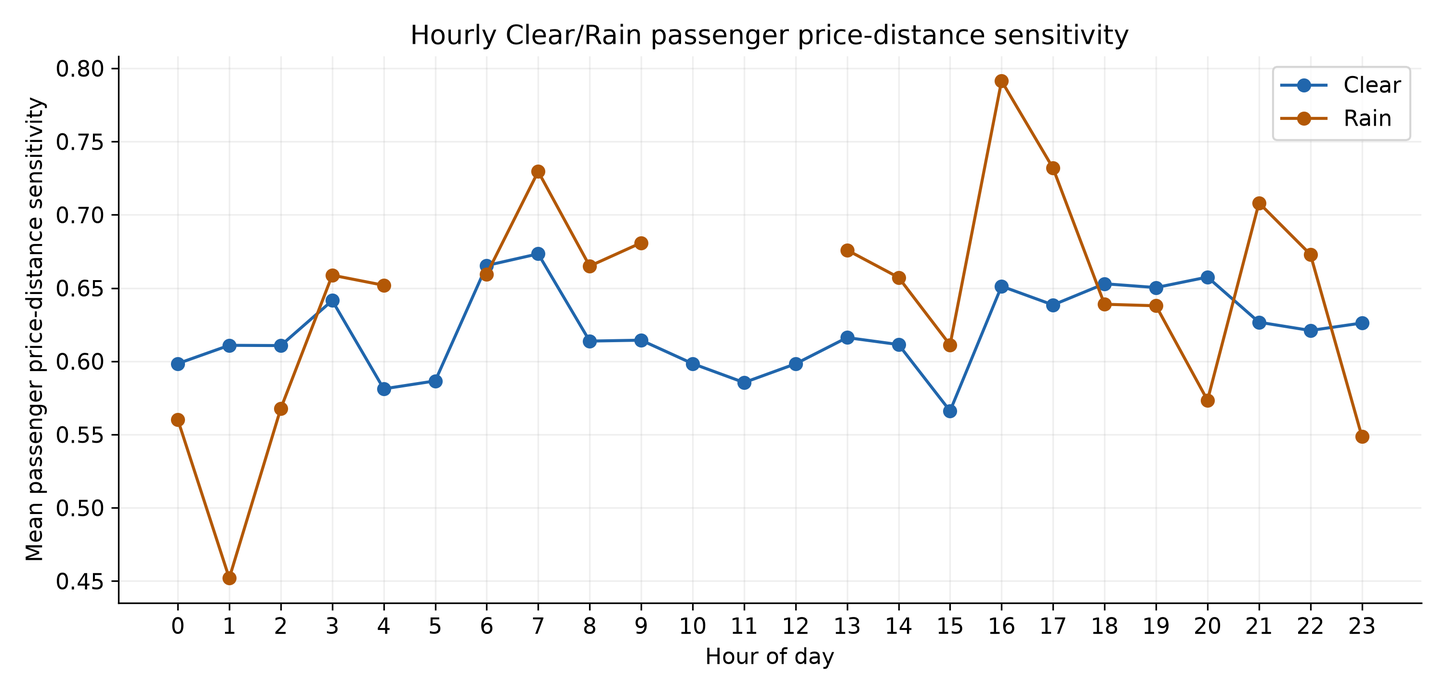
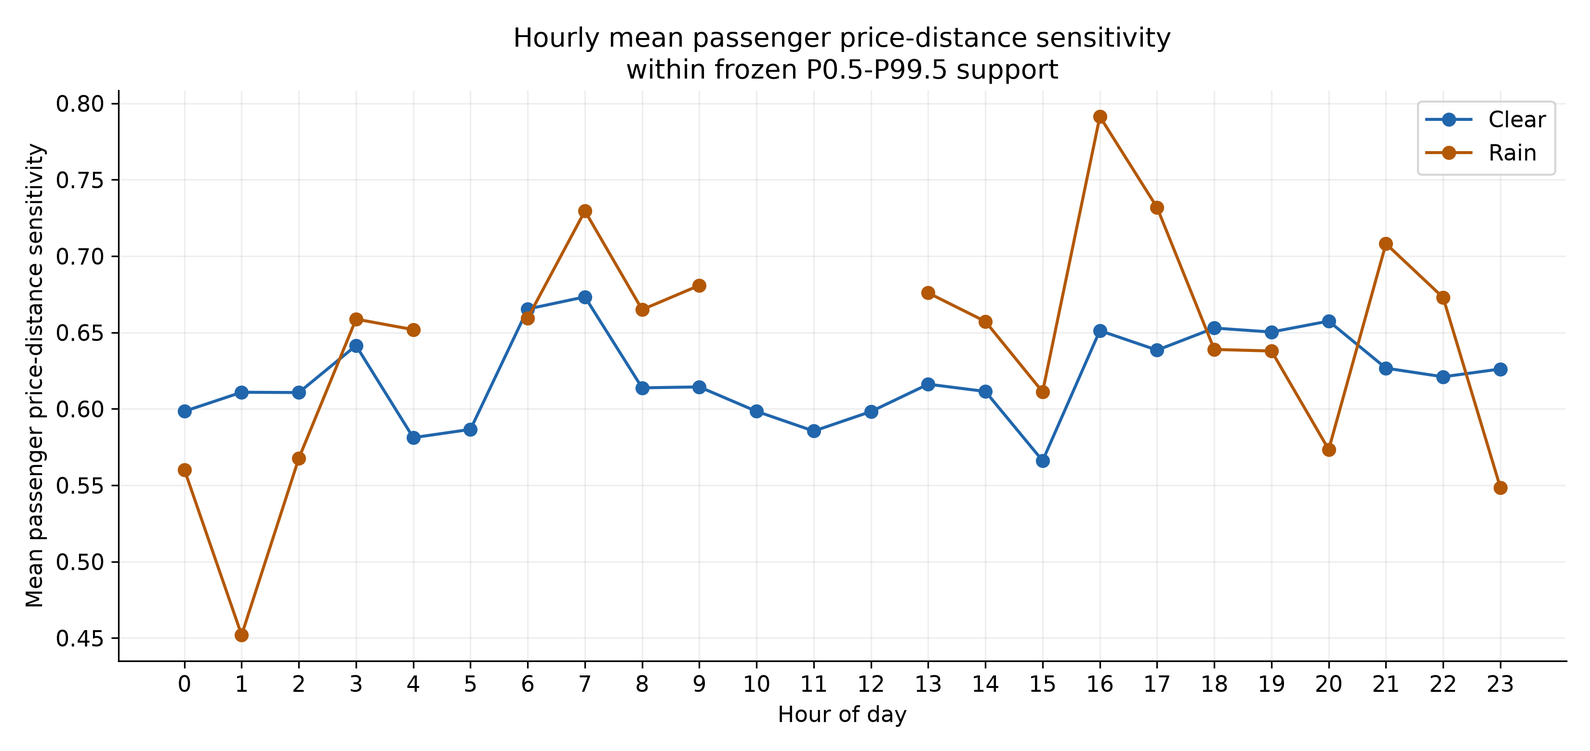
Results added

diff --git a/src/simulation/pricing_dispatch.py b/src/simulation/pricing_dispatch.py
@@ -208,6 +208,7 @@ def _run_request_pricing_dispatch_slot(
     linucb_reward_scaling: str, dispatch_model: str,
     contention_inputs: DriverContentionInputs | None,
     contention_observer: Callable[[ContentionEvaluation], None] | None,
+    time_pricing_policy: TimePricingPolicy | None = None,
 ) -> PricingDispatchSlotResult:
     """Select every request first, dispatch accepted requests, then update each once."""
     timestamp = pd.Timestamp(simulation_timestamp)
@@ -246,6 +247,7 @@ def _run_request_pricing_dispatch_slot(
     for request in ordered:
         context, decision, resolved = selected[request.request_id]
         inputs = context_inputs[request.origin_grid]
+        effective_factor = decision.pricing_factor if time_pricing_policy is None else time_pricing_policy.apply(decision.pricing_factor, simulation_timestamp.hour)
         if customer_response_model == CUSTOMER_MODEL_EQ31:
             fare = offered_fare(request.base_fare, decision.pricing_factor)
             acceptance = draw_customer_acceptance(
@@ -258,7 +260,7 @@ def _run_request_pricing_dispatch_slot(
             if request.trip_distance_miles is None:
                 raise ValueError("historical_sensitivity mode requires request trip_distance_miles.")
             historical = historical_customer_model.evaluate_resolved(
-                resolved, request.trip_distance_miles, decision.pricing_factor,
+                resolved, request.trip_distance_miles, effective_factor,
             )
             fare, accepted, probability = historical.p_dispatch, historical.accepted, None
             request.customer_model = CUSTOMER_MODEL_HISTORICAL
@@ -266,7 +268,7 @@ def _run_request_pricing_dispatch_slot(
             request.historical_p_base, request.historical_d_base = historical.p_base, historical.d_base
             request.epsilon_customer, request.p_max = historical.epsilon_customer, historical.p_max
             request.sensitivity_lookup_level = historical.sensitivity_lookup_level
-        request.pricing_factor, request.offered_fare = decision.pricing_factor, fare
+        request.pricing_factor, request.offered_fare = effective_factor, fare
         request.acceptance_probability, request.customer_accepted = probability, accepted
         request.pricing_context, request.selected_arm = tuple(context.tolist()), decision.arm_index
         pending.append(PendingRequestPricingDecision(request.request_id, context.copy(), decision, float(fare), bool(accepted)))
@@ -363,7 +365,9 @@ def run_pricing_dispatch_slot(
     empty ``context_inputs`` mapping creates neither a decision nor an update.
     """
     if time_pricing_policy is not None:
-        time_pricing_policy.require_runtime_support()
+        time_pricing_policy.require_runtime_support(customer_response_model)
+        if time_pricing_policy.mode != "BASELINE" and simulation_timestamp is None:
+            raise ValueError("Experimental time pricing requires simulation_timestamp")
     if not isinstance(acceptance_rng, np.random.Generator):
         raise ValueError("acceptance_rng must be an explicit numpy.random.Generator.")
     if customer_response_model not in CUSTOMER_RESPONSE_MODELS:
@@ -436,7 +440,7 @@ def run_pricing_dispatch_slot(
             corrected_supply=corrected_supply, grid_lookup=grid_lookup, popularity_table=popularity_table,
             linucb_reward_scaling=linucb_reward_scaling,
             dispatch_model=dispatch_model, contention_inputs=contention_inputs,
-            contention_observer=contention_observer,
+            contention_observer=contention_observer, time_pricing_policy=time_pricing_policy,
         )
     decisions: dict[int, PricingDecision] = {}
     accumulators: dict[int, ContextRevenueAccumulator] = {}
@@ -465,6 +469,7 @@ def run_pricing_dispatch_slot(
         context_id = request.origin_grid
         decision = decisions[context_id]
         context_input = context_inputs[context_id]
+        effective_factor = decision.pricing_factor if time_pricing_policy is None or time_pricing_policy.mode == "BASELINE" else time_pricing_policy.apply(decision.pricing_factor, simulation_timestamp.hour)
         if customer_response_model == CUSTOMER_MODEL_EQ31:
             fare = offered_fare(request.base_fare, decision.pricing_factor)
             acceptance = draw_customer_acceptance(
@@ -481,7 +486,7 @@ def run_pricing_dispatch_slot(
             try:
                 historical = historical_customer_model.evaluate(  # type: ignore[union-attr]
                     float(weather_code), int(period), request.trip_distance_miles,
-                    decision.pricing_factor,
+                    effective_factor,
                 )
             except KeyError as error:
                 raise KeyError(
@@ -496,7 +501,7 @@ def run_pricing_dispatch_slot(
             request.historical_d_base = historical.d_base
             request.epsilon_customer = historical.epsilon_customer
             request.p_max = historical.p_max
-        request.pricing_factor = decision.pricing_factor
+        request.pricing_factor = effective_factor
         request.offered_fare = fare
         request.acceptance_probability = probability
         request.customer_accepted = accepted

diff --git a/scripts/run_record030_time_pricing_experiment.py b/scripts/run_record030_time_pricing_experiment.py
@@ -1,0 +1,45 @@
+"""Opt-in Option A comparison; no Record-029 sensitivity data are loaded."""
+from pathlib import Path
+import sys,json,time
+from dataclasses import asdict
+import pandas as pd
+sys.path.insert(0,str(Path(__file__).resolve().parents[1]))
+from src.simulation.production import ProductionExperiment
+from src.pricing.time_policy import TimePricingPolicy
+
+ROOT=Path(__file__).resolve().parents[1]
+OUT=ROOT/'results/analysis/2026-10-13_record030_time_pricing_experiment'
+
+class ObservedExperiment(ProductionExperiment):
+    def _build_report(self, timestamp, routing_source, requests, evaluations, result, before_weights, after_weights):
+        report=super()._build_report(timestamp,routing_source,requests,evaluations,result,before_weights,after_weights)
+        self.offered_fare_sum=sum(a.offered_fare for a in result.pricing_dispatch.request_audit)
+        return report
+
+def aggregate(frame, name, seed, part):
+    n=int(frame.generated.sum());accepted=int(frame.accepted.sum());served=int(frame.served.sum())
+    assert n==accepted+int(frame.rejected.sum())
+    assert accepted==served+int(frame.accepted_unserved.sum())
+    return dict(experiment=name,seed=seed,daypart=part,requested_trips=n,accepted_trips=accepted,rejected_trips=int(frame.rejected.sum()),accepted_unserved=int(frame.accepted_unserved.sum()),assigned_trips=served,completed_trips=None,acceptance_rate=accepted/n if n else None,completion_rate=None,assignment_rate=served/n if n else None,mean_offered_fare=float(frame.offered_fare_sum.sum())/n if n else None,total_revenue=float(frame.raw_served_revenue.sum()),driver_earnings=None,average_passenger_wait=None)
+
+def main():
+    config=json.loads((ROOT/'config/record030_time_pricing_experiment.json').read_text())
+    overall=[];parts=[]
+    for policy in config['policies']:
+        name=policy['name'];start=time.perf_counter()
+        model=ObservedExperiment(ROOT,seed=config['seed'],time_pricing_policy=TimePricingPolicy.from_config({k:v for k,v in policy.items() if k!='name'}))
+        reports=[]
+        for i in range(config['slots']):
+            row=asdict(model.run_slot());row["offered_fare_sum"]=model.offered_fare_sum;reports.append(row)
+            print(name,i+1,'slots',round(time.perf_counter()-start,1),'seconds',flush=True)
+        f=pd.DataFrame(reports);hours=pd.to_datetime(f.timestamp).dt.hour
+        overall.append(aggregate(f,name,config['seed'],'ALL'))
+        for part,mask in [('DAYTIME',hours.between(8,19)),('OTHER',~hours.between(8,19))]:parts.append(aggregate(f[mask],name,config['seed'],part))
+        for row in overall+parts:
+            base=next(r for r in overall+parts if r['experiment']=='control' and r['daypart']==row['daypart'])
+            for metric in ['accepted_trips','assigned_trips','mean_offered_fare','total_revenue']:
+                row[metric+'_change']=row[metric]-base[metric]
+                row[metric+'_change_pct']=100*(row[metric]-base[metric])/base[metric] if base[metric] else None
+        pd.DataFrame(overall).to_csv(OUT/'pricing_experiment_summary.csv',index=False)
+        pd.DataFrame(parts).to_csv(OUT/'pricing_experiment_daypart_summary.csv',index=False)
+if __name__=='__main__':main()

diff --git a/tests/test_pricing_dispatch.py b/tests/test_pricing_dispatch.py
@@ -70,7 +70,7 @@ class PricingDispatchIntegrationTests(unittest.TestCase):
 
     def run_historical(
         self, requests, fleet, *, model=None, acceptance_seed=99,
-        learner=None, reward_model="legacy_normalized_accepted_revenue",
+        learner=None, reward_model="legacy_normalized_accepted_revenue", time_pricing_policy=None,
     ):
         return run_pricing_dispatch_slot(
             requests, {0: self.contexts[0]}, learner or DisjointLinUCB(alpha=1.), fleet,
@@ -79,7 +79,7 @@ class PricingDispatchIntegrationTests(unittest.TestCase):
             historical_customer_model=model or self.historical_model(),
             weather_code=1., period=0,
             simulation_timestamp=datetime(2026, 1, 1),
-            reward_model=reward_model,
+            reward_model=reward_model, time_pricing_policy=time_pricing_policy,
         )
 
     def run_request_mode(self, requests, fleet, *, learner=None, model=None, reward_scaling="none"):
@@ -300,6 +300,20 @@ class PricingDispatchIntegrationTests(unittest.TestCase):
         self.assertEqual((context.accepted, context.served, context.accepted_but_unserved), (1, 0, 1))
         self.assertEqual((context.served_revenue, context.linucb_reward), (0., 0.))
         self.assertEqual(learner.update_counts.sum(), 1)
+
+    def test_option_a_factor_preserves_customer_draw_and_threshold(self):
+        from src.pricing.time_policy import TimePricingPolicy
+        def run(policy):
+            return self.run_historical([self.empirical_request(0, 4.)], self.fleet(0),
+                model=self.historical_model(seed=42, sigma=.5), time_pricing_policy=policy).request_audit[0]
+        baseline=run(None)
+        control=run(TimePricingPolicy('EXPERIMENT_A'))
+        change=run(TimePricingPolicy('TIME_OF_DAY',1.,1.05))
+        self.assertEqual(baseline, control)
+        self.assertEqual(control.epsilon_customer,change.epsilon_customer)
+        self.assertEqual(control.p_max,change.p_max)
+        self.assertAlmostEqual(change.offered_fare,control.offered_fare*1.05)
+        self.assertEqual(change.customer_accepted,change.offered_fare<=change.p_max)
 
     def test_historical_mode_uses_artifact_base_miles_and_complete_audit(self) -> None:
         request = self.empirical_request(0, 4., fare=999.)

diff --git a/src/pricing/time_policy.py b/src/pricing/time_policy.py
@@ -1,13 +1,7 @@
-"""Opt-in Record-030 pricing interface; empirical-response integration is pending."""
+"""Opt-in Record-030 pricing factors under the existing passenger-response model."""
 from dataclasses import dataclass
 import math
 from typing import Mapping
-
-BLOCKER = (
-    'Record-030 experiment blocked: runtime historical_sensitivity samples positive '
-    'truncated Normal and divides by epsilon in maximum_price; it does not implement '
-    'the frozen signed Record-029 empirical sampler or its passenger-response adapter.'
-)
 
 @dataclass(frozen=True)
 class TimePricingPolicy:
@@ -39,7 +33,7 @@ class TimePricingPolicy:
         factor = self.daytime_factor if 8 <= hour <= 19 else self.other_factor
         return existing_factor * factor
 
-    def require_runtime_support(self):
-        """Fail before any simulator mutation, including for the experimental control."""
-        if self.mode != 'BASELINE':
-            raise RuntimeError(BLOCKER)
+    def require_runtime_support(self, customer_response_model='eq31'):
+        """Opt-in factors use the existing historical model without changing Eq31."""
+        if self.mode != 'BASELINE' and customer_response_model != 'historical_sensitivity':
+            raise ValueError('Time pricing experiments require existing historical_sensitivity response')

diff --git a/src/simulation/production.py b/src/simulation/production.py
@@ -176,7 +176,8 @@ def _weight_distance(before: Iterable[np.ndarray], after: Iterable[np.ndarray]) 
 class ProductionExperiment:
     """One causally persistent authoritative production experiment."""
 
-    def __init__(self, root: str | Path, *, seed: int = 42, fleet_size: int = FLEET_SIZE) -> None:
+    def __init__(self, root: str | Path, *, seed: int = 42, fleet_size: int = FLEET_SIZE, time_pricing_policy=None) -> None:
+        self.time_pricing_policy = time_pricing_policy
         self.root = Path(root).resolve()
         self.seed = int(seed)
         self.fleet_size = int(fleet_size)
@@ -449,6 +450,7 @@ class ProductionExperiment:
             federate=True, federation_round_index=self.slot_index,
             previous_grid_probabilities=self.previous_grid_probabilities,
             initial_grid_policy_probabilities=self.initial_probabilities,
+            time_pricing_policy=self.time_pricing_policy,
             customer_response_model=CUSTOMER_MODEL_HISTORICAL,
             historical_customer_model=self.customer, weather_code=self._weather_code(timestamp),
             period=timestamp.hour * 2 + timestamp.minute // 30, simulation_timestamp=timestamp,

diff --git a/src/simulation/main_slot.py b/src/simulation/main_slot.py
@@ -131,6 +131,7 @@ def run_main_slot(
     reward_model: str = "legacy_normalized_accepted_revenue",
     supply_model: str = "legacy_all_statuses",
     pricing_decision_mode: str = "legacy_grid",
+    time_pricing_policy=None,
     grid_lookup: pd.DataFrame | None = None,
     popularity_table: pd.DataFrame | None = None,
     sensitivity_fallback: str = "error",
@@ -171,6 +172,7 @@ def run_main_slot(
         reward_model=reward_model,
         supply_model=supply_model,
         pricing_decision_mode=pricing_decision_mode,
+        time_pricing_policy=time_pricing_policy,
         grid_lookup=grid_lookup,
         popularity_table=popularity_table,
         sensitivity_fallback=sensitivity_fallback,

diff --git a/tests/test_time_pricing_policy.py b/tests/test_time_pricing_policy.py
@@ -23,6 +23,6 @@ class TimePricingTests(unittest.TestCase):
 
     def test_control_guard_before_state_mutation(self):
         policy=TimePricingPolicy.from_config({'mode':'EXPERIMENT_A'})
-        with self.assertRaisesRegex(RuntimeError,'signed Record-029'):
+        with self.assertRaisesRegex(ValueError,'historical_sensitivity'):
             run_pricing_dispatch_slot([],{},None,None,{},2,15,None,time_pricing_policy=policy)
         TimePricingPolicy().require_runtime_support()

diff --git a/results/analysis/2026-10-13_record030_passenger_response_compatibility/current_passenger_response_model.md b/results/analysis/2026-10-13_record030_passenger_response_compatibility/current_passenger_response_model.md
@@ -1,0 +1,76 @@
+# Current passenger-response model: semantic audit
+
+## Evidence and scope
+
+Read-only inspection of `src/pricing/customer.py`, `src/pricing/customer_sensitivity.py`, `src/simulation/pricing_dispatch.py`, `src/simulation/production.py`, relevant `config/config.yaml` settings and equation tests. Record-029 definitions below use the frozen specification supplied for this audit. No simulation, fitting, adapter or production change was performed. The audit distinguishes implemented equations from an independently validated behavioural interpretation.
+
+## Two alternative response branches
+
+### Eq. (31): no sampled sensitivity parameter
+
+In `customer.py:customer_acceptance_probability`, let alpha be the selected pricing arm, S supply and D potential demand:
+
+p_accept = 1 / [1 + exp(0.67 alpha S/D − 1.67)].
+
+`draw_customer_acceptance` accepts if U < p_accept, U drawn from the explicit NumPy RNG. S is finite and nonnegative; D finite and strictly positive. The implementation evaluates the logistic stably and bounds probability to [0,1]. Alpha must be one of 0.85, 0.90, 0.95, 1.00, 1.05, 1.10, 1.15. Fare = request base fare × alpha. For positive S/D, increasing alpha lowers acceptance; for S=0 the probability is constant in alpha. There is **no epsilon** in Eq. (31), and no maximum-price threshold in this branch. The coefficients 0.67 and 1.67 are fixed, not sampled customer sensitivities.
+
+`config/config.yaml` defaults to this eq31 branch. This does not mean the production runner uses it: `production.py:run_slot` explicitly selects historical_sensitivity.
+
+### Historical sensitivity branch
+
+For WeatherCode and half-hour Period (0–47), `HistoricalCustomerSensitivityModel` resolves P_base, D_base, epsilon_mean and epsilon_std_population. With mu=epsilon_mean and sigma=epsilon_std_population:
+
+E ~ Normal(mu, sigma²) conditioned on E>0.
+
+These fields are passed as the **underlying Normal location and scale**, not the resulting truncated distribution's moments. mu and sigma must be finite and nonnegative. If sigma=0, E=mu with mu>0. Otherwise SciPy truncnorm uses a=−mu/sigma, b=+infinity and the supplied RNG. A numerical guard replaces a nonpositive returned draw by the smallest representable positive float. There is no finite upper bound or Record-029 support restriction. Group-specific numerical parameters are loaded from artifacts, not universal constants; this audit does not recompute them.
+
+Production loads `data/processed/customer_price_sensitivity_2026_01.parquet` and `customer_price_sensitivity_fallback_2026_01.parquet`. Lookup is exact weather/period, then period, weather, global under production's hierarchical mode. It uses a separately spawned customer RNG. These are not the Record-029 empirical row artifact or its shared T1–T4 groups.
+
+With r=(L−D_base)/D_base:
+
+P_dispatch = P_base × alpha
+P_max = P_base × (1 + r/E)
+accepted = (P_dispatch <= P_max).
+
+Equality accepts. Sampling makes acceptance stochastic across customers, but the comparison is deterministic given the draw. Historical acceptance does not use the Eq. (31) probability or its uniform draw. `pricing_dispatch.py` implements these branches separately. Acceptance is not completion: dispatch may still leave an accepted request unserved.
+
+## Limit and monotonicity behaviour
+
+E must be strictly positive; zero/negative inputs raise an error. Limits below are mathematical limits, not successful evaluations at zero.
+
+- L>D_base: as E→0+, P_max→+infinity; increasing E reduces P_max toward P_base and cannot increase acceptance at a fixed offer.
+- L<D_base: as E→0+, P_max→−infinity; increasing E raises P_max toward P_base and cannot decrease acceptance at a fixed offer.
+- L=D_base: P_max=P_base for every allowed E; acceptance is alpha<=1.
+- Decreasing E reverses these directions. Increasing E is therefore not uniformly equivalent to increasing price aversion.
+
+The derivative is dP_max/dE=−P_base*r/E². A negative finite P_max is allowed by the implementation and rejects a positive offered fare; no floor is applied. Extremely small positive E can cause nonfinite arithmetic, which is rejected. E→infinity approaches P_base, but threshold equality at the limit need not describe acceptance for finite E.
+
+## Units and code-implied interpretation
+
+Prices are in USD; L and D_base must share distance units (runtime request field is trip_distance_miles). E, alpha and r are dimensionless. The code treats E as a positive inverse coefficient on relative distance in a maximum-price rule. If that rule is rearranged at equality with nonzero deviations, E=r/[(P_max−P_base)/P_base]. This is a code-implied algebraic ratio, not proof of the artifact's statistical provenance or identified willingness-to-pay. Equal units alone do not establish compatibility.
+
+## Record-029 definition and algebra
+
+P_base=21.34586956773507 USD; tau_P=±1 USD; L_base=3.01799878914405 miles.
+
+r_P=(P−P_base)/P_base; r_L=(L−L_base)/L_base; e=r_P/r_L.
+
+Record-029 e is signed empirical descriptive passenger price-distance sensitivity. The frozen simulation support is [−12.890744316473482,15.442447741158892]. Uniform row resampling with replacement preserves duplicates within T1 00–03, T2 04–05, T3 06–15, T4 16–23, shared Clear/Rain. It is not Gaussian or established causal willingness-to-pay elasticity. The frozen distance-resolution denominator rule and no-L_min decision remain unchanged.
+
+For defined historical e, algebra gives r_P=e*r_L and P=P_base*(1+e*r_L). For the original paired observation and matching references this reconstructs historical fare. For a newly sampled e and a chosen distance it is an algebraically implied synthetic fare; independent resampling need not preserve the historical joint dependence of distance and sensitivity. It can yield negative fares for some pairs. It is **not** mathematically a maximum willingness-to-pay. Using it as an acceptance threshold requires an additional behavioural assumption, domain treatment and validation; none is supplied here.
+
+As e→0 at fixed finite r_L, implied P→P_base: there is no singularity from e in this rearrangement. This differs from the runtime divisor. Record-029's historical numerical instability concerns r_L near zero, not e near zero.
+
+## Reciprocal and substitution
+
+The formulas align algebraically only under E=1/e, with nonzero e, matching references and interpreting the same price in both equations. This reciprocal is negative for negative e, undefined at zero and unbounded near zero. Its distribution is not the runtime positive truncated Normal. It also does not establish that historical fare is a behavioural threshold. Direct E=e substitution is therefore invalid as a semantics-preserving replacement; accidental agreement for special values does not make the parameters equivalent.
+
+Classification: **DIFFERENT_PARAMETERS** under the present definitions and roles. A possible algebraic reciprocal is not a justified behavioural transformation.
+
+## Existing test evidence (read, not executed)
+
+`tests/test_pricing.py:test_eq31_exact_monotonic_bounded_and_zero_demand_guard` explicitly checks the logistic equation and factor monotonicity. `tests/test_customer_sensitivity.py:test_dispatch_and_maximum_price_formulas_and_validation` checks P_max=25 for (P_base,D_base,L,E)=(20,4,6,2) and P_max=15 for (20,4,2,2), and the opposing monotonicities above/below D_base. Its equality-acceptance test checks offered<=maximum. `tests/test_pricing_dispatch.py` checks historical rejection, equality acceptance and distinct seeded sampling. These encode the current model, not Record-029 compatibility.
+
+## Terminology
+
+Runtime uses epsilon_customer, epsilon_mean and sensitivity; Record-029 uses epsilon for a different ratio. The maximum_price docstring's “signed relative-distance formula” concerns r's sign, not a signed E (which is rejected). Recommend documentation names `epsilon_price_distance` for Record-029 and `acceptance_inverse_distance_coefficient` for current E; `acceptance_price_sensitivity` is an alternative only with a clear definition and monotonicity caveat. Do not rename code in this audit.

diff --git a/results/analysis/2026-10-13_record030_price_sensitivity_results_section/Passenger_Price_Sensitivity_Results_Draft.md b/results/analysis/2026-10-13_record030_price_sensitivity_results_section/Passenger_Price_Sensitivity_Results_Draft.md
@@ -1,7 +1,7 @@
 # Passenger Price–Distance Sensitivity Results
 
 ### A. Dataset and study period
-The analysis uses January–March 2026 taxi observations with actual Clear and Rain weather conditions. The source counts and population transitions are reported in [Table 1](record030_dataset_cleaning_flow.csv).
+The analysis uses the full cleaned January–March 2026 historical population. Detailed hourly weather comparisons in this subsection focus on observations classified as Clear or Rain. The source counts and population transitions are reported in [Table 1](record030_dataset_cleaning_flow.csv).
 
 ### B. Cleaning and retained observations
 The three January–March 2026 input files contain 11,077,206 trips. Ten lie outside the pickup window [2026-01-01,2026-04-01), leaving 11,077,196. Combined finite-positive fare/distance and timestamp validity leaves 10,620,887 (456,309 excluded). The existing ≤100-mile source rule removes 478, yielding 10,620,409 cleaned trips. Record-029 revalidation removes zero additional rows. The denominator rule marks 9,017 historical rows unresolved, leaving 10,611,392 VALID epsilon observations. Inclusive simulation support retains 10,505,278; 53,057 valid observations below and 53,057 above remain historical data. Supported Clear/Rain scope contains 3,265,135 observations: Clear 3,050,121 and Rain 215,014.
@@ -22,6 +22,8 @@ Across all 10,611,392 VALID observations before simulation-support restriction, 
 | Clear | 3050121 | 0.621737 | 0.734565 | 1.478379 |
 | Rain | 215014 | 0.654704 | 0.779043 | 1.512583 |
 
+The full authoritative VALID population contains 10,611,392 observations and has population SD 7.037255. The hourly Clear/Rain figures use the frozen P0.5–P99.5 supported population: empirical tails outside simulation support are excluded from those plots. Their lower plotted SDs reflect this population-definition difference, together with weather/hour grouping, rather than contradictory statistics.
+
 ### F. Hourly Clear/Rain results
 [Table 2](record030_hourly_clear_rain_statistics.csv) reports N, mean, median, population SD and P05/P25/P75/P95 for each observed hour. Clear covers every hour; Rain lacks hours 05, 10, 11 and 12. [Figure 1](charts/record030_hourly_mean_clear_rain.png) presents means and [Figure 2](charts/record030_hourly_sd_clear_rain.png) presents SD separately, preserving gaps. Hourly fluctuations are descriptive, and the two curves need not rank weather conditions identically.
 
@@ -29,7 +31,7 @@ Across all 10,611,392 VALID observations before simulation-support restriction, 
 [Table 3](record030_six_hour_group_statistics.csv) and [Figure 3](charts/record030_six_hour_clear_rain_comparison.png) use G1 00–05, G2 06–11, G3 12–17 and G4 18–23 for presentation only. Clear SD is 1.666147, 1.536148, 1.337078 and 1.530691, respectively; Rain SD is 1.942595, 1.538050, 1.209440 and 1.539304. Both have their lowest dispersion in G3 and highest in G1. These periods do not replace the simulation T groups.
 
 ### H. 8 AM–8 PM variability finding
-Clear descriptive difference: daytime (08–19) has lower dispersion than OTHER (20–23 and 00–07) in both weather conditions. Clear pooled SD is 1.383509 versus 1.651547 (difference −0.268038; ratio 0.837705), and Rain is 1.298893 versus 1.763551 (difference −0.464658; ratio 0.736521). Weighted mean hourly SD and median hourly SD show the same direction. This does not establish a continuous trend, a causal weather effect, or lower average sensitivity. [Table 4](record030_8am_8pm_variability_check.csv) reports pooled means, medians, SD and both hourly-SD summaries. Daytime is explicitly hours 08–19; OTHER is hours 20–23 and 00–07.
+Descriptive evidence of lower daytime dispersion: daytime (08–19) has lower dispersion than OTHER (20–23 and 00–07) in both weather conditions. Clear pooled SD is 1.383509 versus 1.651547 (difference −0.268038; ratio 0.837705), and Rain is 1.298893 versus 1.763551 (difference −0.464658; ratio 0.736521). Weighted mean hourly SD and median hourly SD show the same direction. This does not establish a continuous trend, a causal weather effect, or lower average sensitivity. [Table 4](record030_8am_8pm_variability_check.csv) reports pooled means, medians, SD and both hourly-SD summaries. Daytime is explicitly hours 08–19; OTHER is hours 20–23 and 00–07.
 
 ### I. Interpretation
-Average sensitivity and dispersion are distinct: a smaller SD denotes a tighter distribution, not necessarily a smaller mean. These observations do not identify causal price elasticity or causal willingness-to-pay. Unequal weather/hour composition and absent Rain hours limit comparisons. Gaussian ±4 sigma was discussed as a possible simulation representation; it is not the selected model. Record-029 compared truncated Normal with empirical distributions and found material quartile/tail mismatch despite moment agreement. EMPIRICAL_RESAMPLE remains selected. No Gaussian was fitted here; sigma=2.18 is not adopted as a current parameter.
+Unequal weather/hour composition and absent Rain hours limit comparisons. Lower SD means lower dispersion, not necessarily lower mean sensitivity. Hourly and grouped results are descriptive; they do not establish causal price elasticity or causal willingness-to-pay.

diff --git a/results/analysis/2026-10-13_record030_passenger_response_compatibility/README.md b/results/analysis/2026-10-13_record030_passenger_response_compatibility/README.md
@@ -1,0 +1,28 @@
+# Record-030 passenger-response compatibility audit
+
+**Finding: DIFFERENT_PARAMETERS.** Eq. (31) has no sampled epsilon. The production historical branch instead samples a positive truncated-Normal divisor in a maximum-price threshold. Record-029 is a signed empirical price-deviation/distance-deviation ratio. Neither direct substitution nor an unapproved reciprocal preserves the current model.
+
+## Recommended conceptual course
+
+**Option A is recommended now:** retain the existing acceptance model as an explicitly separate model and keep Record-029 descriptive until a behavioural link is agreed. This preserves implementation, not proof of the existing model's empirical validity. The Record-030 empirical-sensitivity pricing experiment remains blocked. If that experiment remains the objective, Option B needs explicit methodology/professor agreement before an adapter is written.
+
+| Option | Advantages | Required assumptions | Implementation impact | Risk |
+|---|---|---|---|---|
+| A: Keep acceptance; Record-029 descriptive | Preserves baseline and avoids conflating quantities | Existing acceptance assumptions remain explicit and independently contestable | None; separate reporting terminology | Cannot test pricing outcomes driven by Record-029 epsilon; baseline may be misspecified |
+| B: Define a new behavioural link | Could support the intended experiment | Explicit approved map from descriptive e to response, treatment of signs/domains, behavioural validation | New response adapter and tests after approval | Historical fare is not reservation price; possible negative thresholds and loss of joint dependence |
+| C: Calibrate/validate a separate response model | Separates descriptive evidence from behaviour | Justified identification/calibration targets; acceptance or behavioural evidence, not fare-distance ratios alone | Separate calibration/validation workflow after agreement | Nonidentification, confounding and falsely treating descriptive fit as behavioural validation |
+
+No option was implemented. Taking absolute values, discarding negative values, reciprocating samples or replacing the empirical family would not be a neutral integration step.
+
+## Files for review
+
+- [Current model and algebra](current_passenger_response_model.md): exact branches, sampling, units, limits, source/test evidence and historical rearrangement.
+- [Parameter comparison](passenger_response_parameter_comparison.csv): required semantic dimensions.
+
+The frozen historical rearrangement implies a fare, not a maximum willingness-to-pay. An acceptance threshold requires an additional behavioural assumption. Recommend distinct names: epsilon_price_distance versus acceptance_inverse_distance_coefficient (or explicitly defined acceptance_price_sensitivity). No production renaming was performed.
+
+## Audit boundaries
+
+Only directly relevant acceptance, pricing dispatch, runner, configuration and equation tests were inspected. No simulation or test scenario was run. Only these three audit files were created; production code and Record-029 artifacts were not modified. The Eq. (31) label refers to the equation implemented in the repository, not an independent literature verification.
+
+NOT_DIRECTLY_COMPATIBLE

diff --git a/results/analysis/2026-10-13_record030_price_sensitivity_results_section/README.md b/results/analysis/2026-10-13_record030_price_sensitivity_results_section/README.md
@@ -21,7 +21,7 @@ The hourly CSV reuses all 44 observed groups (24 Clear, 20 Rain). Missing Rain h
 | Clear | 3050121 | 0.621737 | 0.734565 | 1.478379 |
 | Rain | 215014 | 0.654704 | 0.779043 | 1.512583 |
 
-Hourly means vary less than hourly dispersion; lower SD is not synonymous with lower mean sensitivity. See the separate hourly mean and SD figures.
+Hourly means vary less than hourly dispersion; lower SD is not synonymous with lower mean sensitivity. The separate hourly mean and SD figure titles identify the frozen P0.5–P99.5 support. The six-hour figure presents only mean and population SD; medians remain in the CSV.
 
 ## 5. Grouped 6-Hour Results
 G1=00–05, G2=06–11, G3=12–17 and G4=18–23. Quantiles and population SD are pooled from actual stored epsilon, not averaged hourly quantiles. Both conditions have minimum SD in G3 and maximum SD in G1; mean ordering differs.
@@ -38,7 +38,7 @@ G1=00–05, G2=06–11, G3=12–17 and G4=18–23. Quantiles and population SD a
 | Rain | G4 | 18–23 | 72271 | 0.635867 | 0.792883 | 1.539304 |
 
 ## 6. 8 AM–8 PM Variability Check
-Clear descriptive difference: daytime (08–19) has lower dispersion than OTHER (20–23 and 00–07) in both weather conditions. Clear pooled SD is 1.383509 versus 1.651547 (difference −0.268038; ratio 0.837705), and Rain is 1.298893 versus 1.763551 (difference −0.464658; ratio 0.736521). Weighted mean hourly SD and median hourly SD show the same direction. This does not establish a continuous trend, a causal weather effect, or lower average sensitivity.
+Descriptive evidence of lower daytime dispersion: daytime (08–19) has lower dispersion than OTHER (20–23 and 00–07) in both weather conditions. Clear pooled SD is 1.383509 versus 1.651547 (difference −0.268038; ratio 0.837705), and Rain is 1.298893 versus 1.763551 (difference −0.464658; ratio 0.736521). Weighted mean hourly SD and median hourly SD show the same direction. This does not establish a continuous trend, a causal weather effect, or lower average sensitivity.
 
 | weather_name | period | N | mean | median | population_SD | weighted_mean_hourly_SD | median_hourly_SD |
 | --- | --- | --- | --- | --- | --- | --- | --- |
